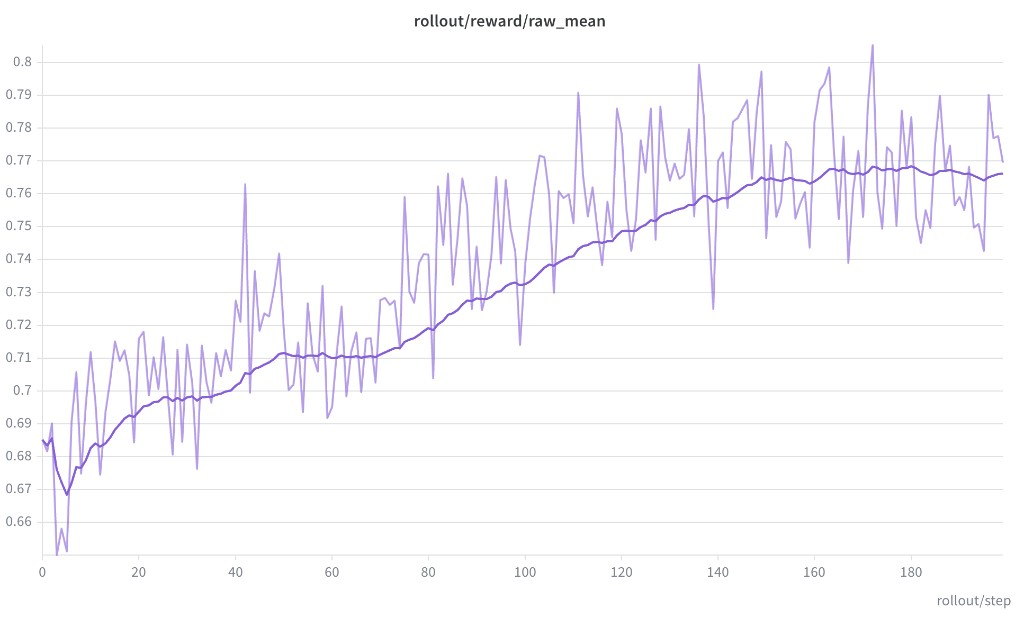
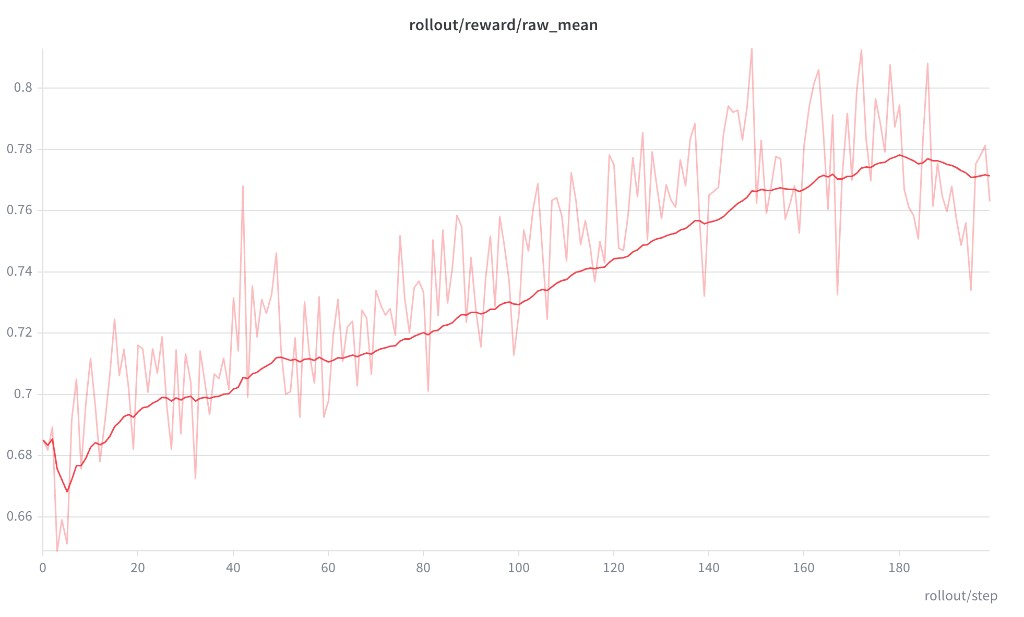
docs(ltx): use original CI reward curve

diff --git a/docs/models/ltx/ltx2.md b/docs/models/ltx/ltx2.md
@@ -38,7 +38,7 @@ Registered in `miles/backends/fsdp_utils/configs/ltx.py`:
 |---|---|---|
 | Velocity → noise | `forward_velocity` reconstructs x0 via `ltx_core.utils.to_denoised` in fp32 and divides back out | Algebraically an identity, but the fp32 rounding path is what the e2e standards were recorded against |
 | Boundary dtypes | `latents` / `cond` cast to the forward dtype, `timestep` passthrough | Element-wise math anchors on `latents.dtype` and rollout runs bf16 — see [Dtype Control](/advanced/dtype-control) |
-| Precision | fp32 master; bf16 reduce, forward, and engine + math-SDPA on both sides | Matches the reference run; math-SDPA is deterministic by construction and identical across the two implementations |
+| Precision | fp32 master; bf16 reduce, forward, and engine + math-SDPA on both sides | Canonical recipe; math-SDPA is deterministic by construction and identical across the two implementations |
 | SDE | CPS kernel, `sde_timestep_divisor = 1000.0` | σ comes straight from the carried rollout timesteps rather than a scheduler lookup; log-prob drops its constants |
 | LoRA targets | Attention + FFN: `to_q`, `to_k`, `to_v`, `to_out.0`, `net.0.proj`, `net.2` | |
 | Rollout patches | `--rollout-patch-group ltx`: `patch_ltx2_rollout_cond_kwargs`, `patch_ltx2_disable_av_cross` | Video-only training forward needs AV cross-attention off engine-side |
@@ -68,7 +68,8 @@ python3 scripts/run_diffusion_grpo_ltx23_sglang.py
 
 ## 6. Reference results
 
-The 4-train-GPU + 1-reward-GPU recipe raises `rollout/reward/raw_mean` from ~0.68 to ~0.77
+The original [bf16-master 4-train-GPU + 1-reward-GPU run](https://wandb.ai/kangrdu/miles-diffusion-grpo/runs/l301246j),
+used as the first LTX E2E reference, raises `rollout/reward/raw_mean` from ~0.68 to ~0.77
 over 200 rollouts:
 
 ![LTX-2.3 PickScore reward mean](../../assets/images/ltx/reward_mean.png)
